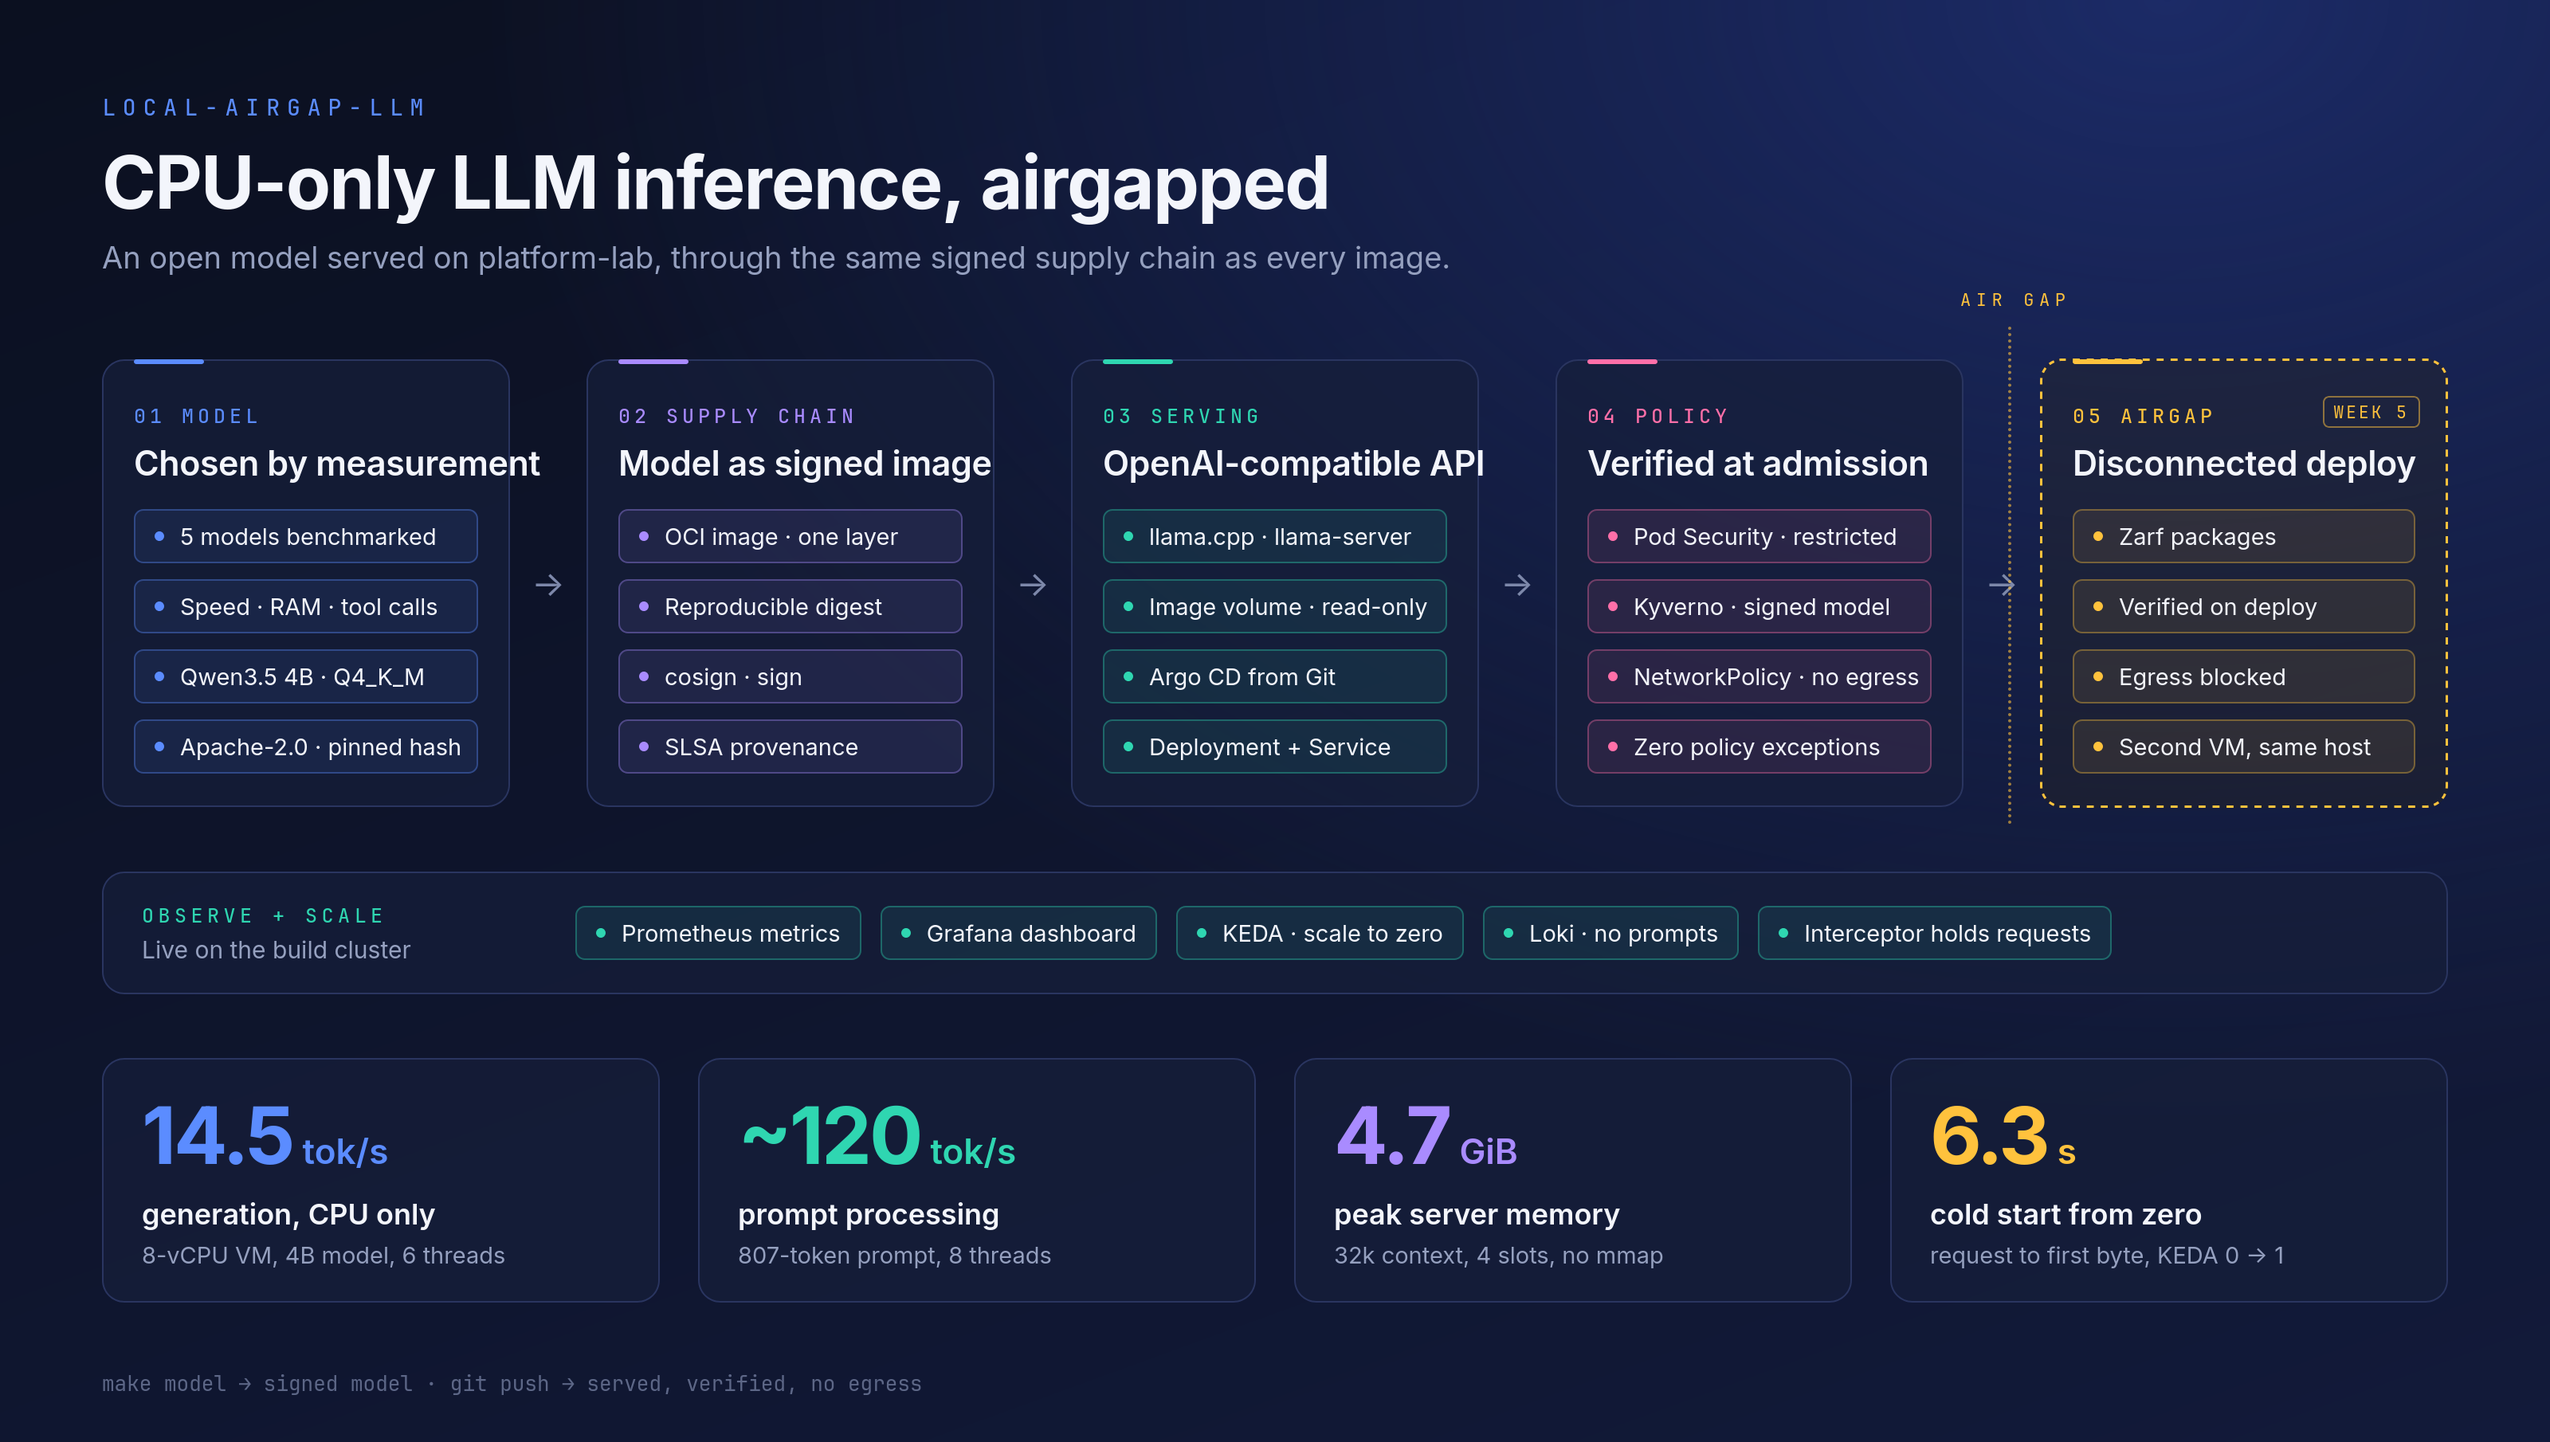
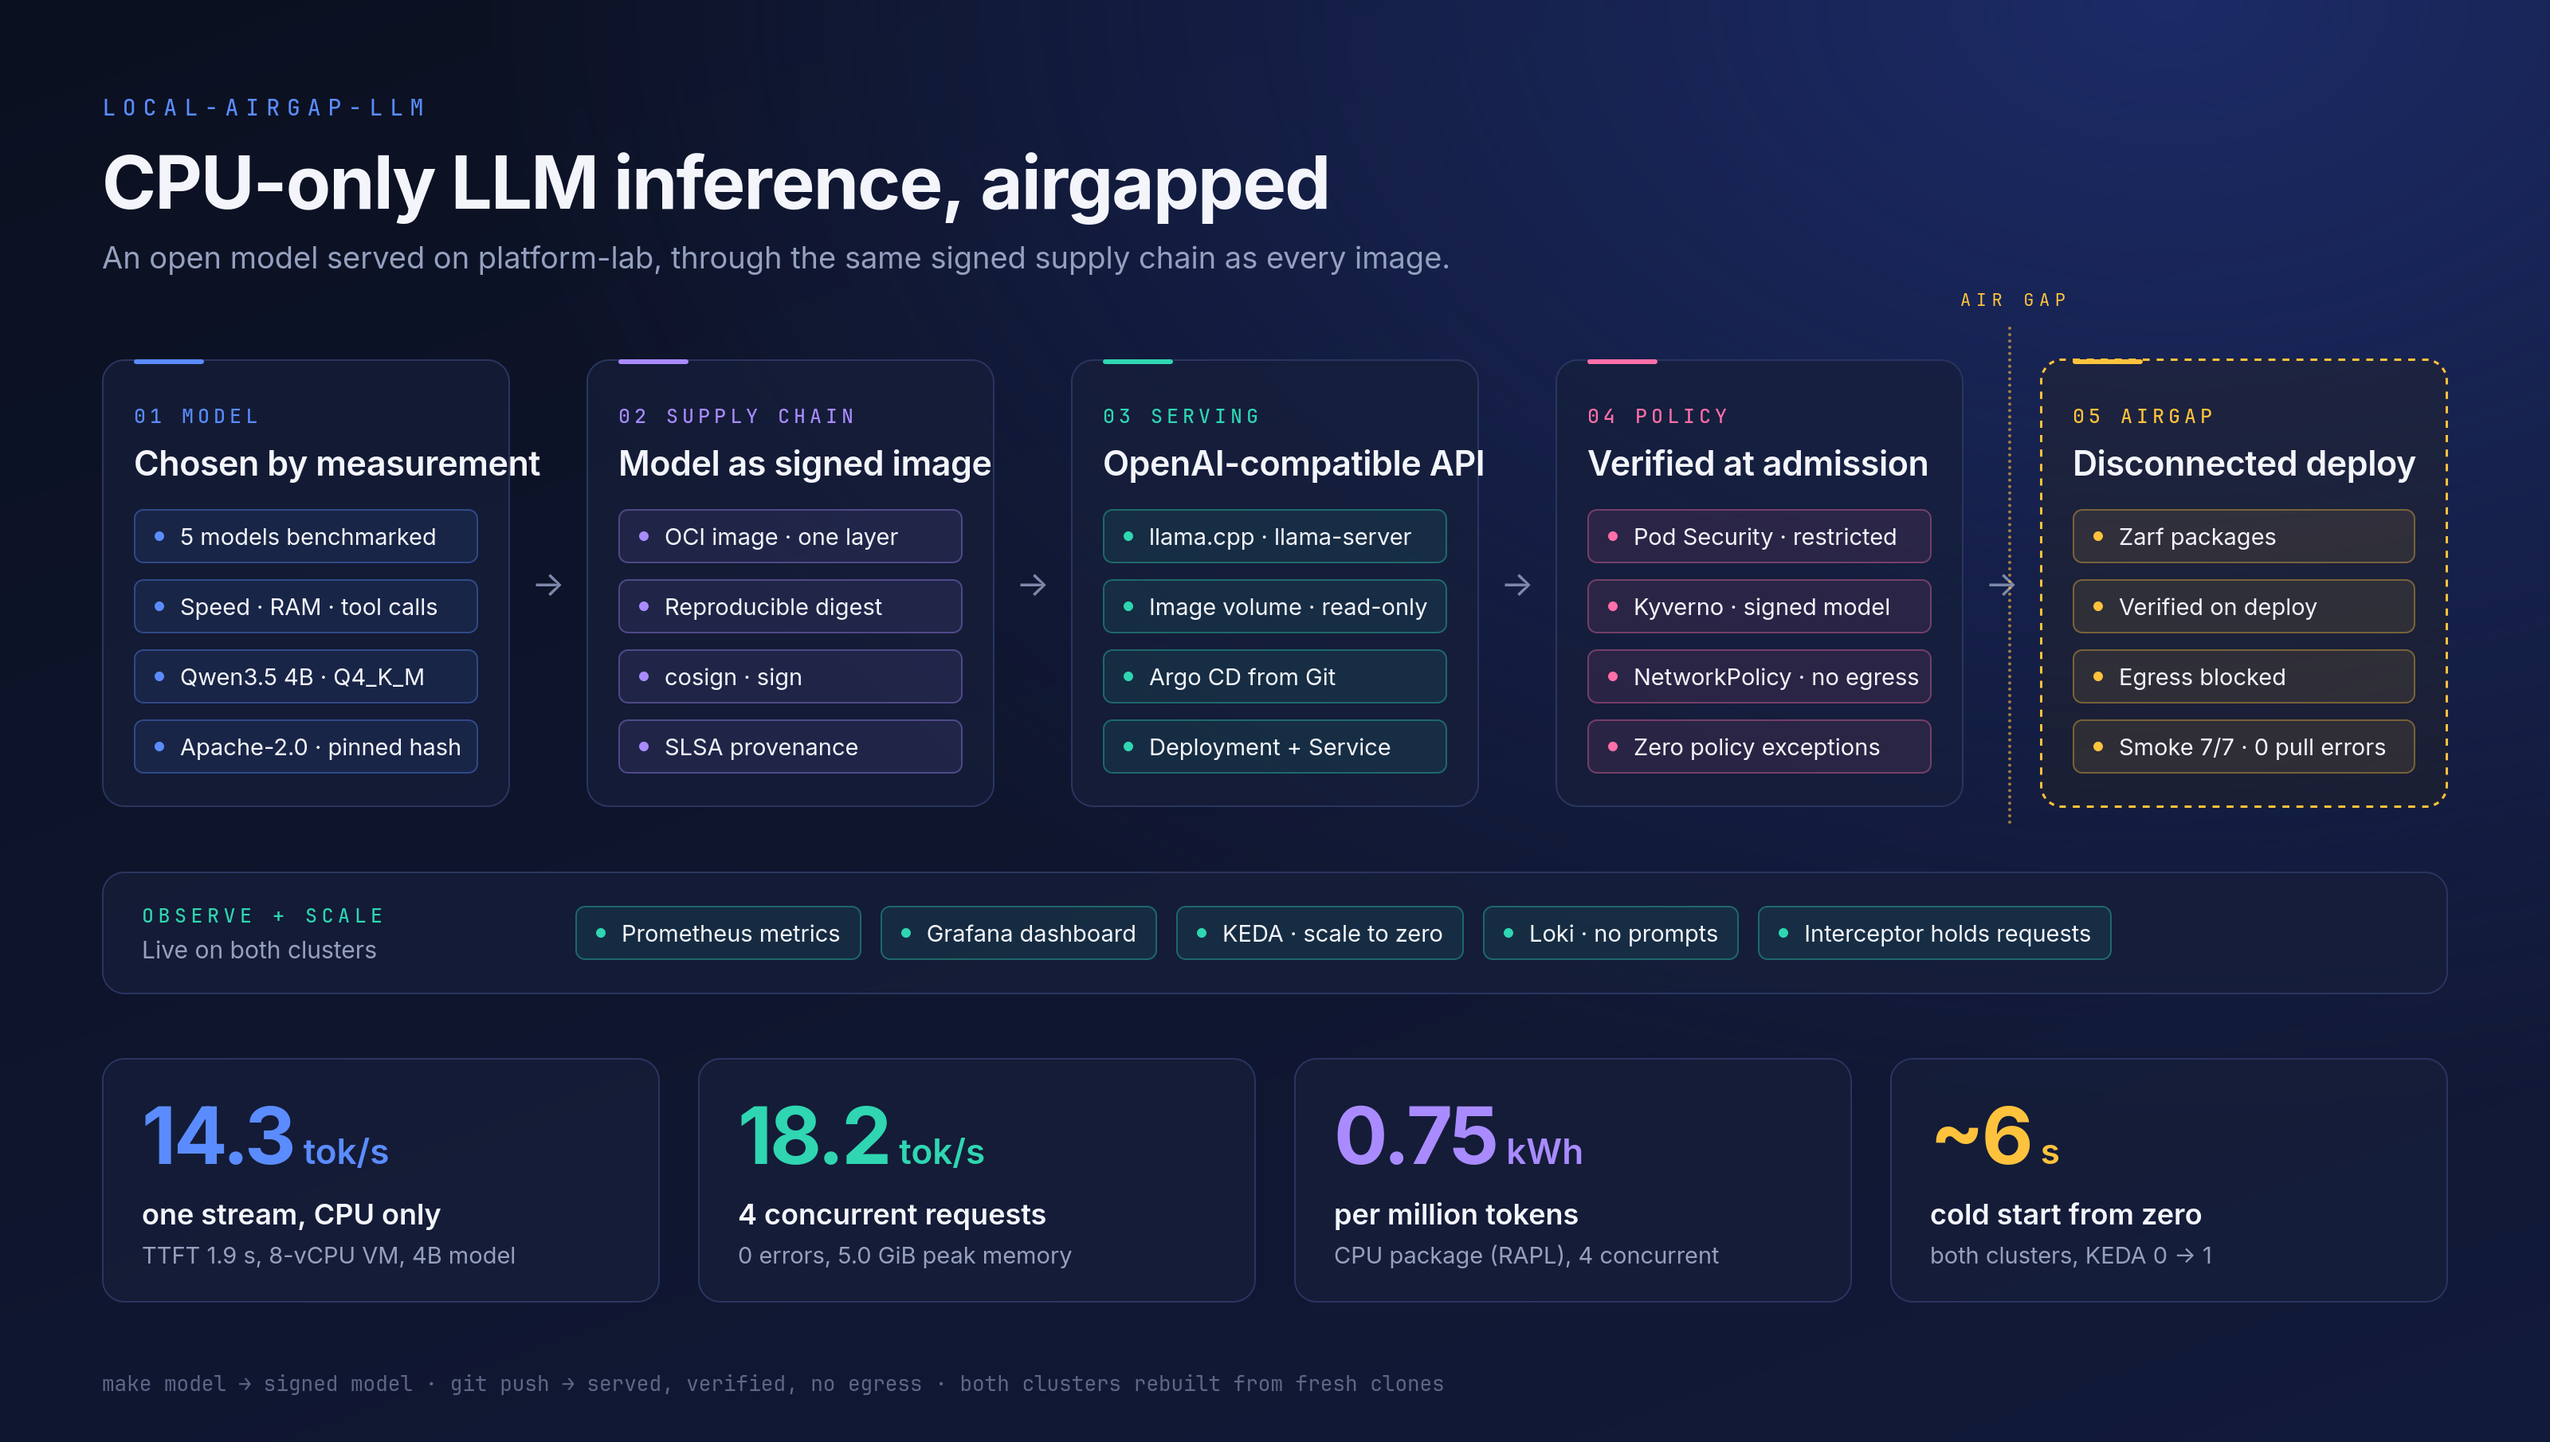
docs: overview image with v1.0 results

diff --git a/docs/images/overview.html b/docs/images/overview.html
@@ -3,7 +3,8 @@
   Source of docs/images/overview.png (3200x1810). Render:
     scripts/render-overview.sh
   Same layout as platform-lab's platform-overview.png. Numbers are measured
-  results from benchmarks/README.md and docs/scans/; update both together.
+  results from docs/load-test.md, docs/scaling.md and docs/airgap-runbook.md
+  (the README results table); update them together.
 -->
 <html>
 <head>
@@ -132,20 +133,19 @@
     </div>
     <div class="arrow">→</div>
     <div class="card dashed" style="--c: var(--amber)">
-      <div class="tag">WEEK 5</div>
       <div class="num">05 AIRGAP</div>
       <h2>Disconnected deploy</h2>
       <div class="pill">Zarf packages</div>
       <div class="pill">Verified on deploy</div>
       <div class="pill">Egress blocked</div>
-      <div class="pill">Second VM, same host</div>
+      <div class="pill">Smoke 7/7 · 0 pull errors</div>
     </div>
   </div>
 
   <div class="band">
     <div class="label">
       <div class="mono">OBSERVE + SCALE</div>
-      <div>Live on the build cluster</div>
+      <div>Live on both clusters</div>
     </div>
     <div class="pill">Prometheus metrics</div>
     <div class="pill">Grafana dashboard</div>
@@ -156,27 +156,27 @@
 
   <div class="stats">
     <div class="stat" style="--c: var(--blue)">
-      <div class="big">14.5<small>tok/s</small></div>
-      <div class="what">generation, CPU only</div>
-      <div class="how">8-vCPU VM, 4B model, 6 threads</div>
+      <div class="big">14.3<small>tok/s</small></div>
+      <div class="what">one stream, CPU only</div>
+      <div class="how">TTFT 1.9 s, 8-vCPU VM, 4B model</div>
     </div>
     <div class="stat" style="--c: var(--teal)">
-      <div class="big">~120<small>tok/s</small></div>
-      <div class="what">prompt processing</div>
-      <div class="how">807-token prompt, 8 threads</div>
+      <div class="big">18.2<small>tok/s</small></div>
+      <div class="what">4 concurrent requests</div>
+      <div class="how">0 errors, 5.0 GiB peak memory</div>
     </div>
     <div class="stat" style="--c: var(--violet)">
-      <div class="big">4.7<small>GiB</small></div>
-      <div class="what">peak server memory</div>
-      <div class="how">32k context, 4 slots, no mmap</div>
+      <div class="big">0.75<small>kWh</small></div>
+      <div class="what">per million tokens</div>
+      <div class="how">CPU package (RAPL), 4 concurrent</div>
     </div>
     <div class="stat" style="--c: var(--amber)">
-      <div class="big">6.3<small>s</small></div>
+      <div class="big">~6<small>s</small></div>
       <div class="what">cold start from zero</div>
-      <div class="how">request to first byte, KEDA 0 → 1</div>
+      <div class="how">both clusters, KEDA 0 → 1</div>
     </div>
   </div>
 
-  <div class="foot">make model → signed model · git push → served, verified, no egress</div>
+  <div class="foot">make model → signed model · git push → served, verified, no egress · both clusters rebuilt from fresh clones</div>
 </body>
 </html>
